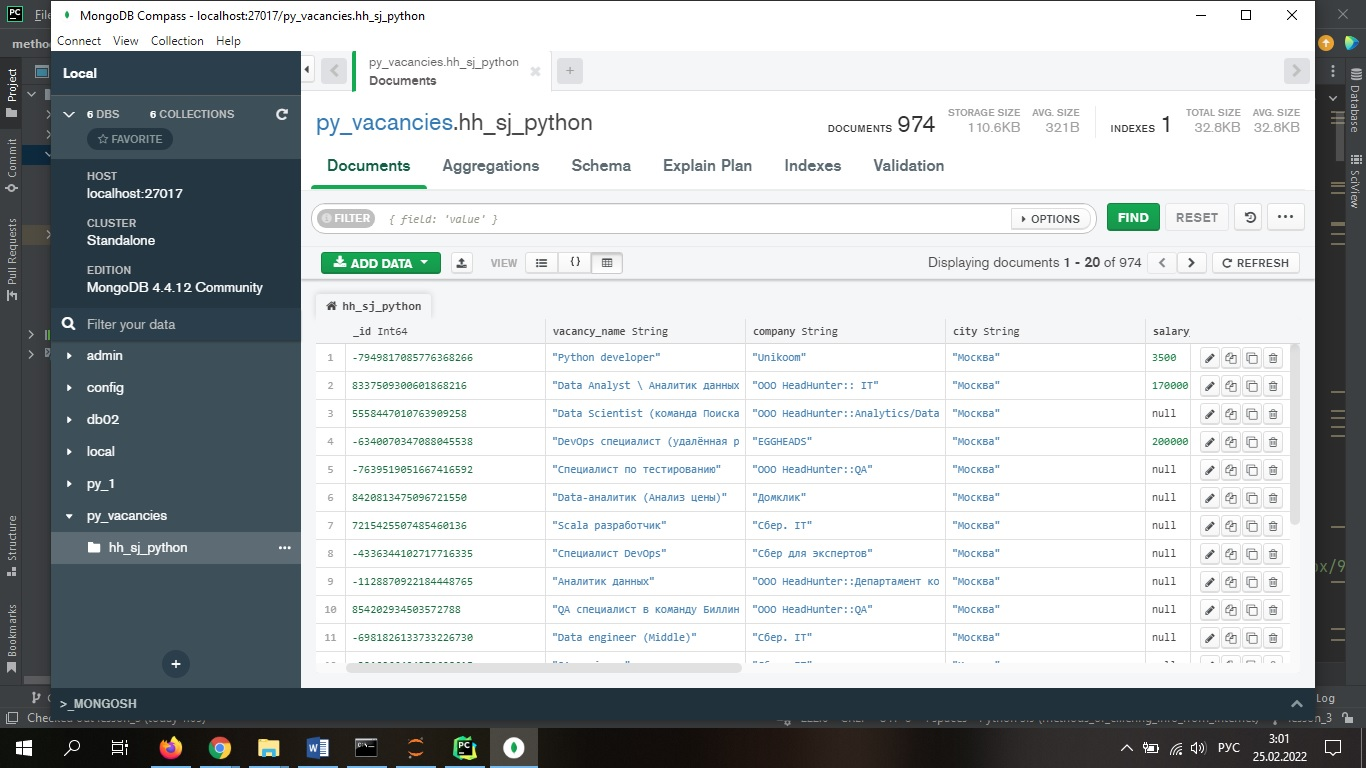
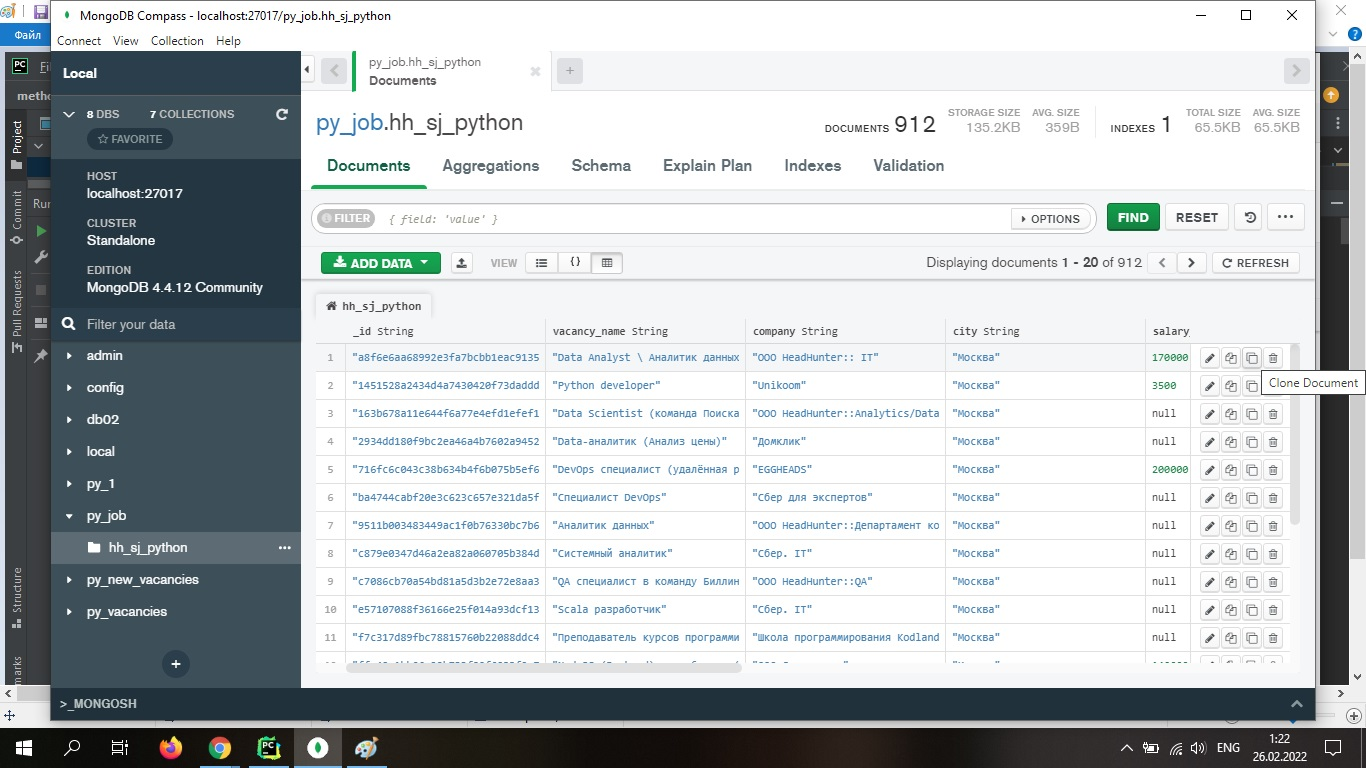
lesson_3 job_scrapping.py fixed hashlib added

diff --git a/lesson_3/job_scrapping.py b/lesson_3/job_scrapping.py
@@ -5,6 +5,7 @@ import pymongo
 from pprint import pprint
 from pymongo.errors import *
 from time import sleep
+import hashlib
 
 
 class JobScrapper:
@@ -203,7 +204,10 @@ class JobScrapper:
         for i in data:
             data_for_hash = str(i['vacancy_name']) + str(i['company']) + str(i['city']) + str(i['salary_min']) + str(i['salary_max']) + \
                             str(i['currency']) + str(i['vacancy_link']) + str(i['site'])
-            i['_id'] = hash(data_for_hash)
+            data_bytes = data_for_hash.encode('utf-8')
+            hash_object = hashlib.sha1(data_bytes)
+            hex_dig = hash_object.hexdigest()
+            i['_id'] = hex_dig
         return data
 
     """Метод вставляет вакансии в базу данных"""
@@ -214,7 +218,7 @@ class JobScrapper:
                 self.collection.insert_one(vacancy)
             except DuplicateKeyError as e:
                 print(e)
-                print('--> ', vacancy['id'], vacancy['vacancy_name'], vacancy['company'], 'was duplicated')
+                print('--> ', vacancy['_id'], vacancy['vacancy_name'], vacancy['company'], 'was duplicated')
         print('All vacancies successfully inserted!')
 
     """Метод для поиска вакансий с зп больше указанной"""
@@ -225,7 +229,6 @@ class JobScrapper:
             pprint(vacancy)
 
 
-a = JobScrapper('py_vacancies', 'hh_sj_python', 'python')
-#pprint(a.superjob_parser())
+a = JobScrapper('py_job', 'hh_sj_python', 'python')
 a.insert_vacancies_to_database()
 a.find_vacancies_with_salary(150000)
